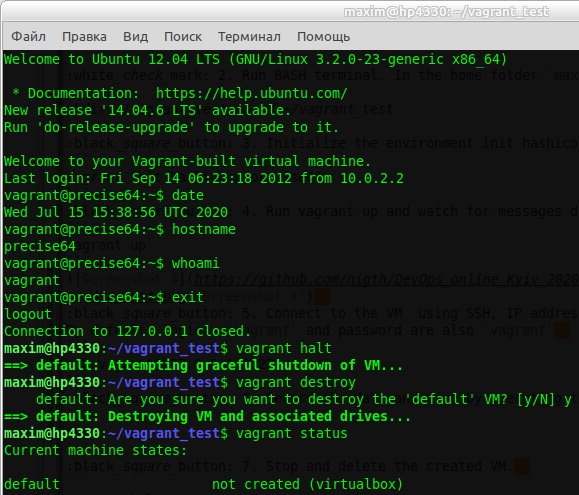
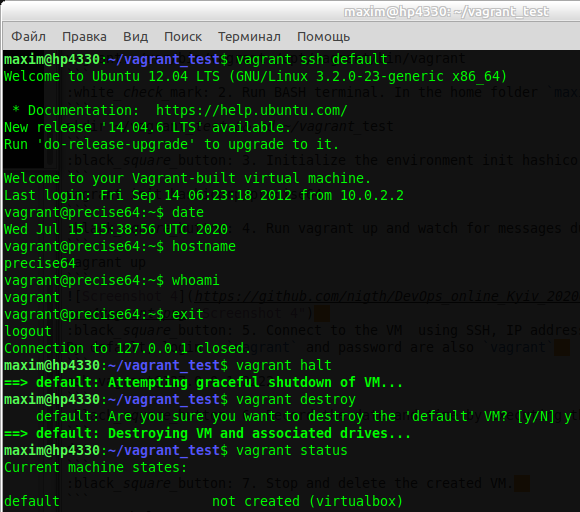
added images 4 5 to readme

Changed region(s): [[0.0, 0.0, 1.0, 0.9394], [0.3731, 0.9697, 0.715, 1.0], [0.0, 0.9697, 0.0622, 1.0]]

diff --git a/m2/task2.2/readme.md b/m2/task2.2/readme.md
@@ -62,9 +62,10 @@ vagrant up
 ```
 ![Screenshot 4](https://github.com/nigth/DevOps_online_Kyiv_2020Q3Q4/blob/master/m2/task2.2/screenshots/scr4vagrant.png "Screenshot 4")  
 :black_square_button: 5. Connect to the VM  using SSH, IP address and port listed above (127.0.0.1:2222).  
-By default, login - `vagrant` and password are also `vagrant`  
+By default, login - `vagrant` and password are also `vagrant` (or use `default` VM name):  
 ```
 ssh vagrant@127.0.0.1:2222
+vagrant ssh default
 ```
 :black_square_button: 6. Record the date and time by executing the date command  
 ```
